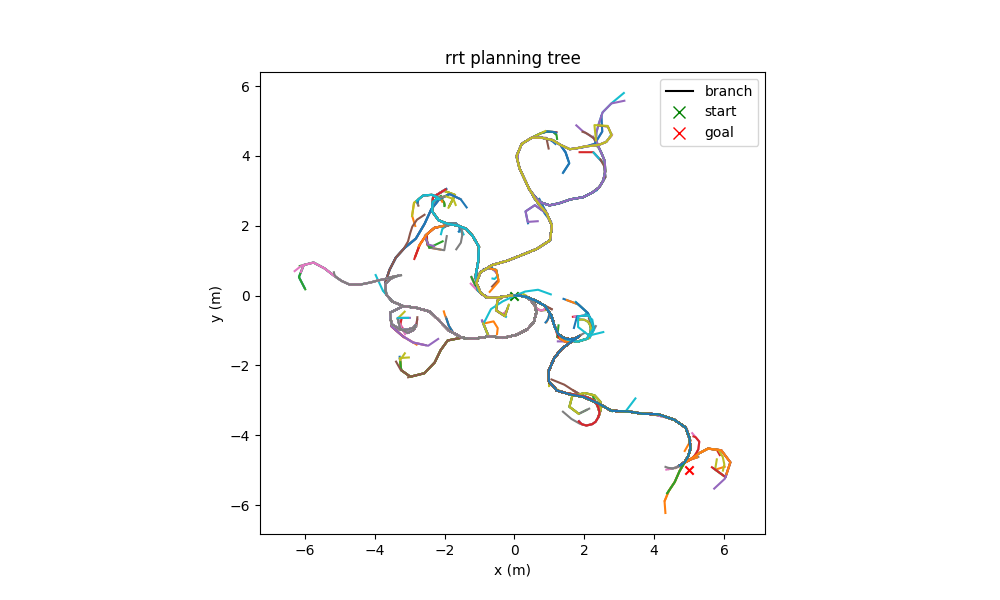
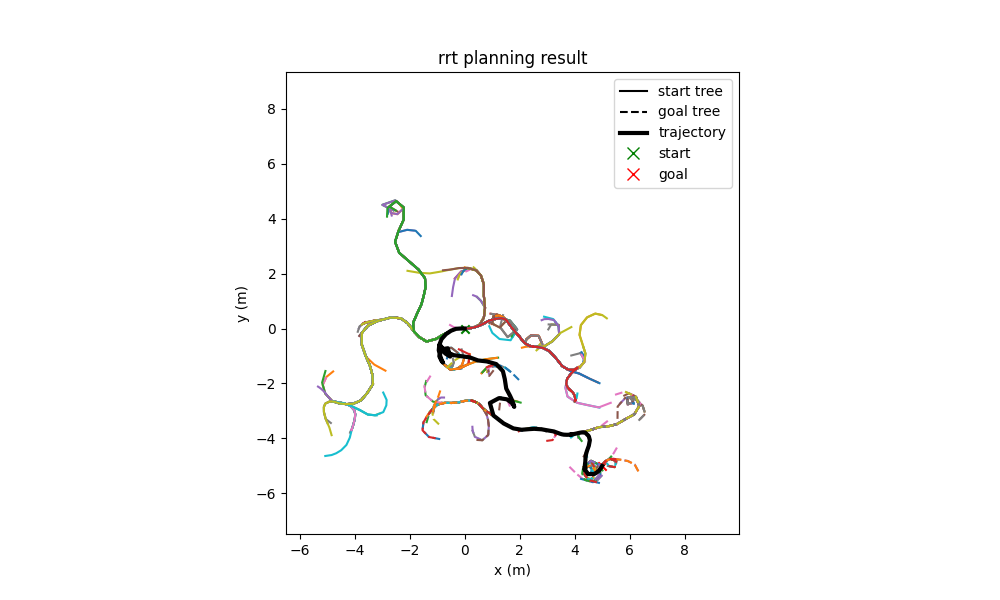
For rrt bb9125c

diff --git a/rrt_plot/plot_test.py b/rrt_plot/plot_test.py
@@ -144,11 +144,17 @@ def dubins_paths_test():
 
 def plan_with_obstacles():
     start_goal_df = pd.read_csv(log_dir.joinpath("start_goal.csv"))
+    start_tree_df = pd.read_csv(log_dir.joinpath("start_tree.csv"))
+    goal_tree_df = pd.read_csv(log_dir.joinpath("goal_tree.csv"))
+    
+    start = (float(start_goal_df["x_start"].item()), float(start_goal_df["y_start"].item()))
+    goal = (float(start_goal_df["x_goal"].item()), float(start_goal_df["y_goal"].item()))
+    
     try:
-        tree_df = pd.read_csv(log_dir.joinpath("tree.csv"))
-    except pd.errors.EmptyDataError:
-        print("no tree data")
-        return
+        trajectory_df = pd.read_csv(log_dir.joinpath("trajectory.csv"))
+    except (pd.errors.EmptyDataError):
+        print("no trajectory")
+        trajectory_df = None
 
     try:
         obstacle_df = pd.read_csv(log_dir.joinpath("obstacles.csv"))
@@ -156,16 +162,29 @@ def plan_with_obstacles():
         print("no obstacles")
         obstacle_df = None
 
-    plan(start_goal_df, tree_df, obstacle_df)
-
-
-def plan(start_goal_df, tree_df, obstacle_df):
     plt.figure(figsize=(10, 6))
-    for _, branch_df in tree_df.groupby("branch"):
+    
+    # Start tree
+    for _, branch_df in start_tree_df.groupby("branch"):
         plt.plot(branch_df["x"], branch_df["y"], "-")
         branch_df = branch_df.reset_index(drop=True)
-        assert branch_df.at[len(branch_df) - 1, "x"] == 0.0
-        assert branch_df.at[len(branch_df) - 1, "y"] == 0.0
+        
+        assert branch_df.at[len(branch_df) - 1, "x"] == start[0]
+        assert branch_df.at[len(branch_df) - 1, "y"] == start[1]
+    # Goal tree
+    for _, branch_df in goal_tree_df.groupby("branch"):
+        plt.plot(branch_df["x"], branch_df["y"], "--")
+        branch_df = branch_df.reset_index(drop=True)
+        assert branch_df.at[len(branch_df) - 1, "x"] == goal[0]
+        assert branch_df.at[len(branch_df) - 1, "y"] == goal[1]
+        
+    # Planned trajectory tree
+    if trajectory_df is not None:
+        for _, branch_df in trajectory_df.groupby("branch"):
+            plt.plot(branch_df["x"], branch_df["y"], "k-", linewidth=3.0)
+            branch_df = branch_df.reset_index(drop=True)
+            assert branch_df.at[len(branch_df) - 1, "x"].item() == start[0]
+            assert branch_df.at[len(branch_df) - 1, "y"].item() == start[1]
 
     if obstacle_df is not None:
         verts_l = util.extract_plottable_rectangles(obstacle_df)
@@ -190,7 +209,9 @@ def plan(start_goal_df, tree_df, obstacle_df):
     )
 
     legend_elements = [
-        Line2D([0], [0], color="black", linestyle="-", label="branch"),
+        Line2D([0], [0], color="black", linestyle="-", label="start tree"),
+        Line2D([0], [0], color="black", linestyle="--", label="goal tree"),
+        Line2D([0], [0], color="black", linestyle="-", linewidth=3.0, alpha=1, label="trajectory"),
         Line2D(
             [0],
             [0],
@@ -207,18 +228,19 @@ def plan(start_goal_df, tree_df, obstacle_df):
 
     if obstacle_df is not None:
         legend_elements.append(
-            Patch(facecolor="black", edgecolor="black", label="obstacle")
+            Patch(facecolor="white", edgecolor="red", label="obstacle")
         )
 
-    plt.title("rrt planning tree")
+    plt.title("rrt planning result")
     plt.xlabel("x (m)")
     plt.ylabel("y (m)")
     plt.xlim([-11, 11])
+    plt.ylim([-11, 11])
     plt.gca().set_aspect("equal")
 
     plt.legend(handles=legend_elements, loc="upper right")
     plt.show()
-    
+
 
 def interpolate_test():
     state_df = pd.read_csv(log_dir.joinpath("state.csv"))
@@ -230,6 +252,9 @@ def interpolate_test():
             plt.plot(x, y, c='r')
         else:
             plt.plot(x, y, c='k')
+    plt.xlim([-10, 10])
+    plt.ylim([-10, 10])
+    plt.gca().set_aspect('equal')
     plt.show()
 
 
@@ -239,6 +264,7 @@ name_to_plotter = {
     "plan_with_obstacles_test": plan_with_obstacles,
     "plan_without_obstacles_test": plan_with_obstacles,
     "dubins_interpolate_test": interpolate_test,
+    "dubins_distance_test": interpolate_test,
 }
 
 name_to_plotter[args.name]()
